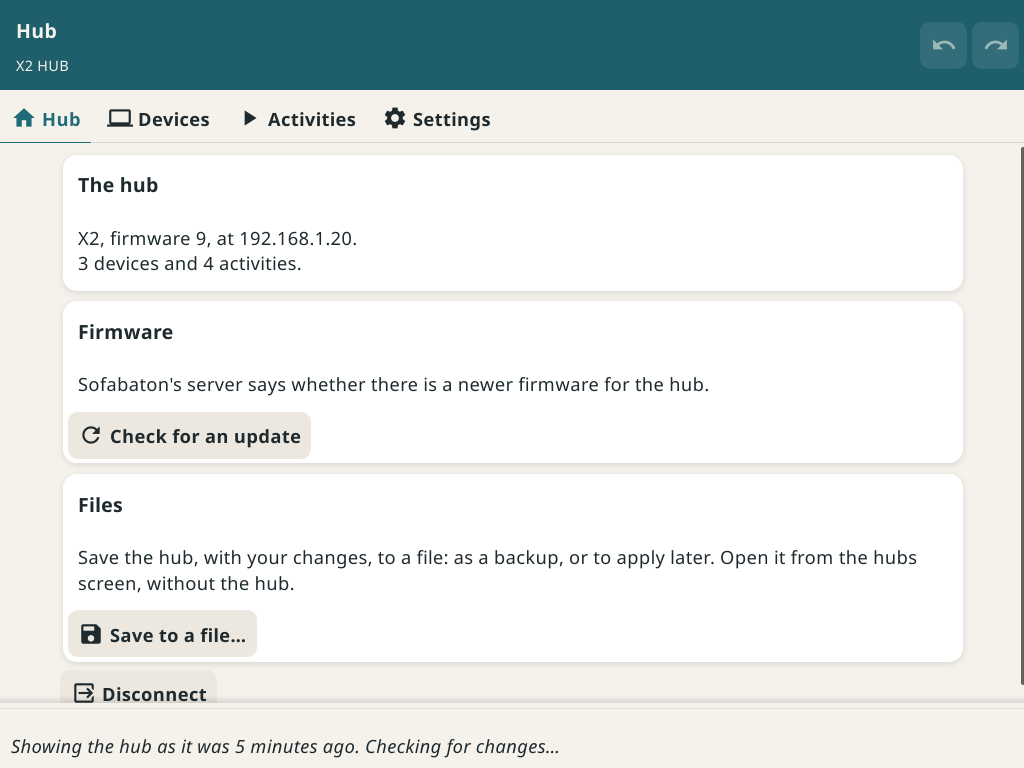
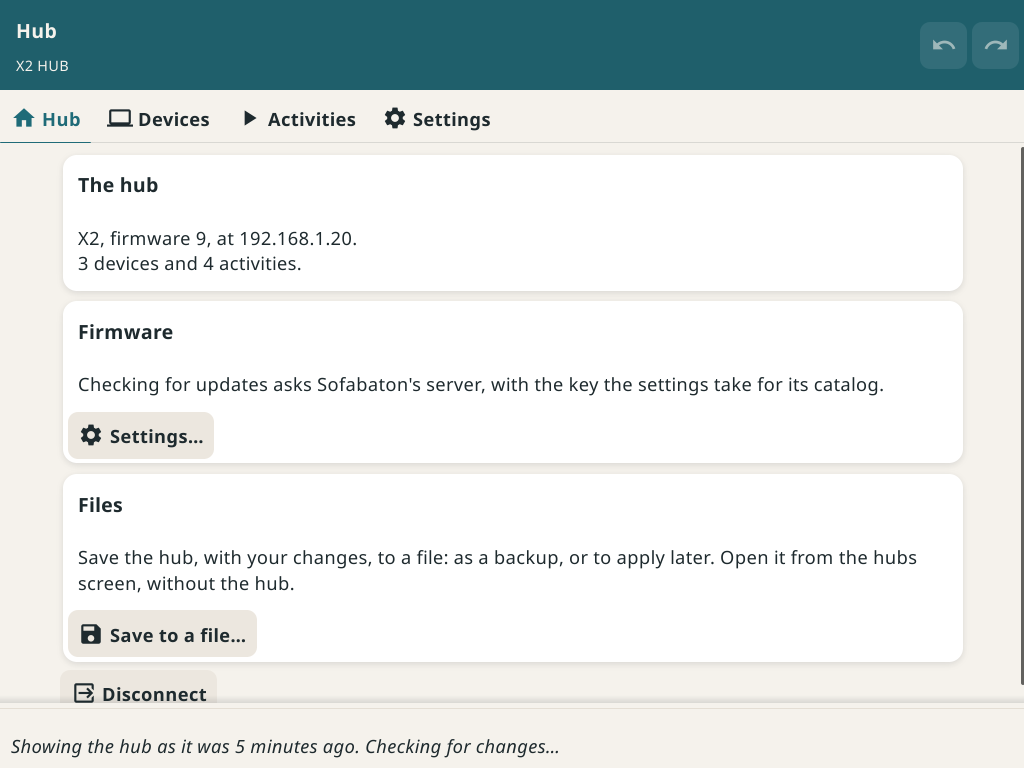
Firmware: checked on connecting, once a connection, the status line saying when there is an update

Changed region(s): [[0.0625, 0.4688, 0.875, 0.625]]

diff --git a/internal/ui/firmware.go b/internal/ui/firmware.go
@@ -11,6 +11,7 @@ import (
 	"fyne.io/fyne/v2/widget"
 
 	"github.com/brunoga/armrest/internal/i18n"
+	"github.com/brunoga/sofabaton/hub"
 	"github.com/brunoga/sofabaton/irsource"
 )
 
@@ -18,66 +19,133 @@ import (
 // image (a hub's is about 50 KB).
 const firmwareTimeout = time.Minute
 
-// firmwareCard checks the hub's firmware against Sofabaton's server and
-// installs a newer one, as the app does; nil for a file or the demo.
+// firmwareCheck is the last check of the connected hub's firmware, and
+// of its remotes', with Sofabaton's server.
+type firmwareCheck struct {
+	// client is the connection it was made on: a new one checks again.
+	client  *hub.Client
+	running bool
+	// firmware is the hub's, hub the newer one the server has, if any.
+	firmware byte
+	hub      *irsource.Firmware
+	remotes  []remoteUpdate
+	err      error
+}
+
+// checkFirmware asks Sofabaton's server for newer firmware for the hub
+// and its remotes, in the background; auto says the app checks on its
+// own, on connecting, and says so only if there is something newer.
+func (a *App) checkFirmware(auto bool) {
+	key := sofabatonKey()
+	if key == "" || a.client == nil {
+		return
+	}
+	c := a.client
+	fc := &firmwareCheck{client: c, running: true, firmware: c.Info().Firmware}
+	a.fw = fc
+	if a.browse != nil {
+		a.browse.showFirmware()
+	}
+	a.async(func() {
+		ctx, cancel := context.WithTimeout(context.Background(), firmwareTimeout)
+		defer cancel()
+		cat := a.sofabaton(key)
+		f, err := cat.HubFirmware(ctx, c.Info())
+		var found []remoteUpdate
+		if err == nil {
+			// The hub's answer stands without its remotes'.
+			var rerr error
+			if found, rerr = remoteUpdates(ctx, c, cat); rerr != nil {
+				fyne.LogError("checking the remotes' firmware", rerr)
+			}
+		}
+		fyne.Do(func() {
+			fc.running, fc.hub, fc.remotes, fc.err = false, f, found, err
+			if a.fw != fc || a.browse == nil {
+				return // checked again, or left, meanwhile
+			}
+			a.browse.showFirmware()
+			if auto && fc.newer() {
+				a.browse.setStatus(false, i18n.T("A firmware update is available: the Hub tab has it."))
+			}
+		})
+	})
+}
+
+// newer reports whether the check found newer firmware.
+func (fc *firmwareCheck) newer() bool {
+	if fc.hub != nil {
+		return true
+	}
+	for _, r := range fc.remotes {
+		if r.update != nil {
+			return true
+		}
+	}
+	return false
+}
+
+// firmwareCard shows the firmware check, and installs what it found, as
+// the app does; nil for a file or the demo. Connecting checks on its own
+// once a connection, with the catalog's key set.
 func (s *browseScreen) firmwareCard() fyne.CanvasObject {
 	a := s.app
 	if a.offline() || s.hub.Demo || a.client == nil {
 		return nil
 	}
-	status := wrapped("")
-	actions := container.NewHBox()
-	remotes := container.NewVBox()
-	remotes.Hide() // until it has a remote's row
-	var check func()
+	s.fwStatus = wrapped("")
+	s.fwActions = container.NewHBox()
+	s.fwRemotes = container.NewVBox()
+	s.showFirmware()
+	if sofabatonKey() != "" && (a.fw == nil || a.fw.client != a.client) {
+		a.checkFirmware(true)
+	}
+	return card(i18n.T("Firmware"), container.NewVBox(s.fwStatus, s.fwActions, s.fwRemotes))
+}
+
+// showFirmware shows the last check on the firmware card.
+func (s *browseScreen) showFirmware() {
+	if s.fwStatus == nil {
+		return
+	}
+	a := s.app
+	check := func() { a.checkFirmware(false) }
 	show := func(text string, buttons ...fyne.CanvasObject) {
-		status.SetText(text)
-		actions.Objects = buttons
-		actions.Refresh()
+		s.fwStatus.SetText(text)
+		s.fwActions.Objects = buttons
+		s.fwActions.Refresh()
 	}
-	check = func() {
-		key := sofabatonKey()
-		if key == "" {
-			show(i18n.T("Checking for updates asks Sofabaton's server, with the key the settings take for its catalog."))
-			return
-		}
-		info, c := a.client.Info(), a.client
+	s.fwRemotes.RemoveAll()
+	fc := a.fw
+	if fc != nil && fc.client != a.client {
+		fc = nil // of another connection
+	}
+	switch {
+	case sofabatonKey() == "" && fc == nil:
+		show(i18n.T("Checking for updates asks Sofabaton's server, with the key the settings take for its catalog."),
+			widget.NewButtonWithIcon(i18n.T("Settings…"), theme.SettingsIcon(), a.showSettings))
+	case fc == nil:
+		show(i18n.T("Sofabaton's server says whether there is a newer firmware for the hub."),
+			widget.NewButtonWithIcon(i18n.T("Check for an update"), theme.ViewRefreshIcon(), check))
+	case fc.running:
 		show(i18n.T("Checking for an update…"))
-		remotes.RemoveAll()
-		a.async(func() {
-			ctx, cancel := context.WithTimeout(context.Background(), firmwareTimeout)
-			defer cancel()
-			cat := a.sofabaton(key)
-			f, err := cat.HubFirmware(ctx, info)
-			var found []remoteUpdate
-			if err == nil {
-				// The hub's answer stands without its remotes'.
-				var rerr error
-				if found, rerr = remoteUpdates(ctx, c, cat); rerr != nil {
-					fyne.LogError("checking the remotes' firmware", rerr)
-				}
-			}
-			fyne.Do(func() {
-				for _, r := range found {
-					remotes.Add(s.remoteRow(r))
-				}
-				remotes.Hidden = len(remotes.Objects) == 0
-				remotes.Refresh()
-				switch {
-				case err != nil:
-					show(i18n.T("Checking failed: %v", err), widget.NewButtonWithIcon(i18n.T("Try again"), theme.ViewRefreshIcon(), check))
-				case f == nil:
-					show(i18n.T("Firmware %d is the newest.", info.Firmware))
-				default:
-					install := widget.NewButtonWithIcon(i18n.T("Install…"), theme.DownloadIcon(), func() { s.installFirmware(f) })
-					install.Importance = widget.HighImportance
-					show(i18n.T("Firmware %d is available: %s", f.Version, f.Notes), install)
-				}
-			})
-		})
+	case fc.err != nil:
+		show(i18n.T("Checking failed: %v", fc.err), widget.NewButtonWithIcon(i18n.T("Try again"), theme.ViewRefreshIcon(), check))
+	case fc.hub == nil:
+		show(i18n.T("Firmware %d is the newest.", fc.firmware), widget.NewButtonWithIcon(i18n.T("Check again"), theme.ViewRefreshIcon(), check))
+	default:
+		f := fc.hub
+		install := widget.NewButtonWithIcon(i18n.T("Install…"), theme.DownloadIcon(), func() { s.installFirmware(f) })
+		install.Importance = widget.HighImportance
+		show(i18n.T("Firmware %d is available: %s", f.Version, f.Notes), install)
 	}
-	show(i18n.T("Sofabaton's server says whether there is a newer firmware for the hub."), widget.NewButtonWithIcon(i18n.T("Check for an update"), theme.ViewRefreshIcon(), check))
-	return card(i18n.T("Firmware"), container.NewVBox(status, actions, remotes))
+	if fc != nil {
+		for _, r := range fc.remotes {
+			s.fwRemotes.Add(s.remoteRow(r))
+		}
+	}
+	s.fwRemotes.Hidden = len(s.fwRemotes.Objects) == 0
+	s.fwRemotes.Refresh()
 }
 
 // installFirmware downloads the firmware and sends it to the hub, which

diff --git a/internal/ui/firmware_test.go b/internal/ui/firmware_test.go
@@ -22,17 +22,20 @@ import (
 func TestFirmware(t *testing.T) {
 	u, w := newApp(t, backend.Hub{Name: "Lounge", Model: "X2", Firmware: 9, Addr: lounge})
 	u.sofabaton = func(key string) sofabatonCatalog { return fakeCatalog{key} }
+	prev := remoteUpdates
+	t.Cleanup(func() { remoteUpdates = prev })
+	remoteUpdates = func(context.Context, *hub.Client, sofabatonCatalog) ([]remoteUpdate, error) { return nil, nil }
 	test.Tap(button(t, w, "Lounge (X2, 192.168.1.20)"))
-	hubAction(t, u, "Check for an update")
-	if got := texts(w); !strings.Contains(got, "with the key the settings take") {
+	u.browse.tabs.SelectIndex(hubTab)
+	if got := texts(w); !strings.Contains(got, "with the key the settings take") || !strings.Contains(got, "[Settings…]") {
 		t.Fatalf("checked without a key:\n%s", got)
 	}
+	// With the key, the hub tab checks on its own, once a connection, and
+	// says when there is something newer.
 	prefs().SetString(sofabatonKeyPref, fakeKey)
 	t.Cleanup(func() { prefs().SetString(sofabatonKeyPref, "") })
-	u.browse.tabs.SelectIndex(hubTab)
 	u.showBrowse(u.hub).tabs.SelectIndex(hubTab)
-	test.Tap(button(t, w, "Check for an update"))
-	if got := texts(w); !strings.Contains(got, "Firmware 10 is available: Fixes bugs") {
+	if got := texts(w); !strings.Contains(got, "Firmware 10 is available: Fixes bugs") || !strings.Contains(got, "A firmware update is available") {
 		t.Fatalf("no update offered:\n%s", got)
 	}
 	test.Tap(button(t, w, "Install…"))
@@ -140,17 +143,17 @@ func TestRemoteFirmware(t *testing.T) {
 	}
 	sifli.RestartPause = 0
 
+	// Connecting checks the remotes too.
 	remoteBluetooth = false
 	test.Tap(button(t, w, "Lounge (X2, 192.168.1.20)"))
-	hubAction(t, u, "Check for an update")
+	u.browse.tabs.SelectIndex(hubTab)
 	if got := texts(w); !strings.Contains(got, "Remote 1: firmware 10 is available: Faster sync") || !strings.Contains(got, "from a phone") {
 		t.Fatalf("no remote update offered:\n%s", got)
 	}
 
 	remoteBluetooth = true
 	u.showBrowse(u.hub).tabs.SelectIndex(hubTab)
-	test.Tap(button(t, w, "Check for an update"))
-	test.Tap(button(t, w, "Install…"))
+	test.Tap(button(t, w, "Install on Remote 1…"))
 	test.Tap(button(t, w, "Yes"))
 	if got := texts(w); !strings.Contains(got, "Remote 1 has firmware 10 and is installing it") || string(fake.got) != "image" {
 		t.Fatalf("not installed (%q):\n%s", fake.got, got)
@@ -158,8 +161,8 @@ func TestRemoteFirmware(t *testing.T) {
 
 	// On the newest, it can be sent again.
 	firmware, fake.got = 10, nil
+	u.checkFirmware(false)
 	u.showBrowse(u.hub).tabs.SelectIndex(hubTab)
-	test.Tap(button(t, w, "Check for an update"))
 	if got := texts(w); !strings.Contains(got, "Remote 1: firmware 10 is the newest.") {
 		t.Fatalf("not the newest:\n%s", got)
 	}

diff --git a/internal/ui/remotefw.go b/internal/ui/remotefw.go
@@ -89,7 +89,7 @@ func (s *browseScreen) remoteRow(r remoteUpdate) fyne.CanvasObject {
 		note.TextStyle.Italic = true
 		return container.NewVBox(text, note)
 	}
-	install := widget.NewButtonWithIcon(i18n.T("Install…"), theme.DownloadIcon(), func() { s.installRemote(r) })
+	install := widget.NewButtonWithIcon(i18n.T("Install on %s…", r.remote.Name), theme.DownloadIcon(), func() { s.installRemote(r) })
 	install.Importance = widget.HighImportance
 	return container.NewVBox(text, container.NewHBox(install))
 }

diff --git a/internal/ui/browse.go b/internal/ui/browse.go
@@ -40,7 +40,11 @@ type browseScreen struct {
 	barBackBox *fyne.Container
 	barTop     fyne.CanvasObject
 	// hubInfo says what the hub is, on the hub's tab.
-	hubInfo             *widget.Label
+	hubInfo *widget.Label
+	// The firmware card: the check's words, its buttons, the remotes'.
+	fwStatus            *widget.Label
+	fwActions           *fyne.Container
+	fwRemotes           *fyne.Container
 	devices, activities *browseList
 
 	status *widget.Label

diff --git a/internal/ui/app.go b/internal/ui/app.go
@@ -83,6 +83,8 @@ type App struct {
 	// background is set while the app is not in the foreground: a phone
 	// suspends its network then, and the hub's connection drops.
 	background bool
+	// fw is the last check of the hub's firmware with Sofabaton's server.
+	fw *firmwareCheck
 	// working is set while the hub is read or written: those screens
 	// handle a dropped connection themselves.
 	working bool

diff --git a/PLAN.md b/PLAN.md
@@ -169,7 +169,9 @@ cmd/armrest/         the app (all targets)
 7. **Backup and restore:** dump to a file, restore
    from a file with the plan first.
 8. **Firmware:** the hub tab asks Sofabaton's server, as the app does,
-   whether there is a newer hub firmware, and installs it (downloaded,
+   whether there is a newer hub firmware (on its own once a connection,
+   with the catalog's key set, the status line saying when there is),
+   and installs it (downloaded,
    sent with its MD5, then the hub restarts and is connected to again).
    No newer hub firmware has been out to install yet. The remotes the
    hub knows are checked too; on Android, Armrest sends a remote its
